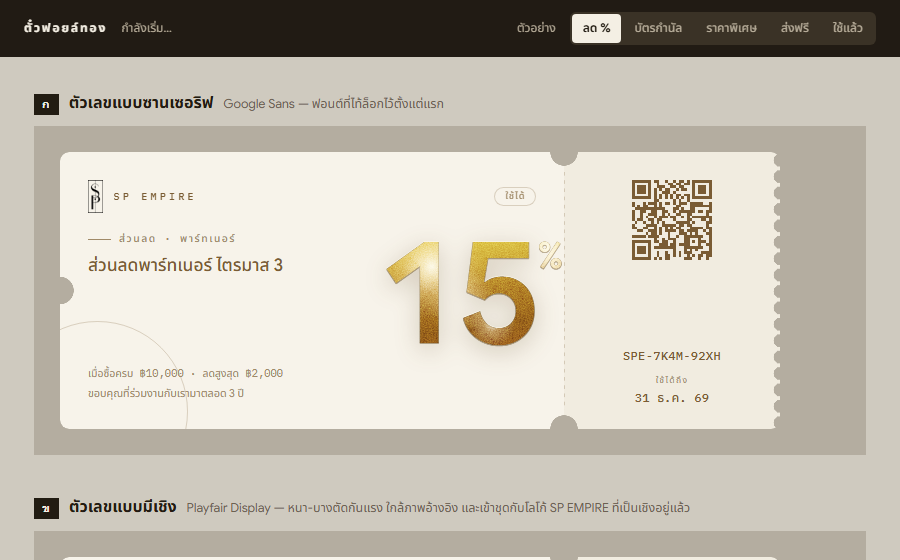
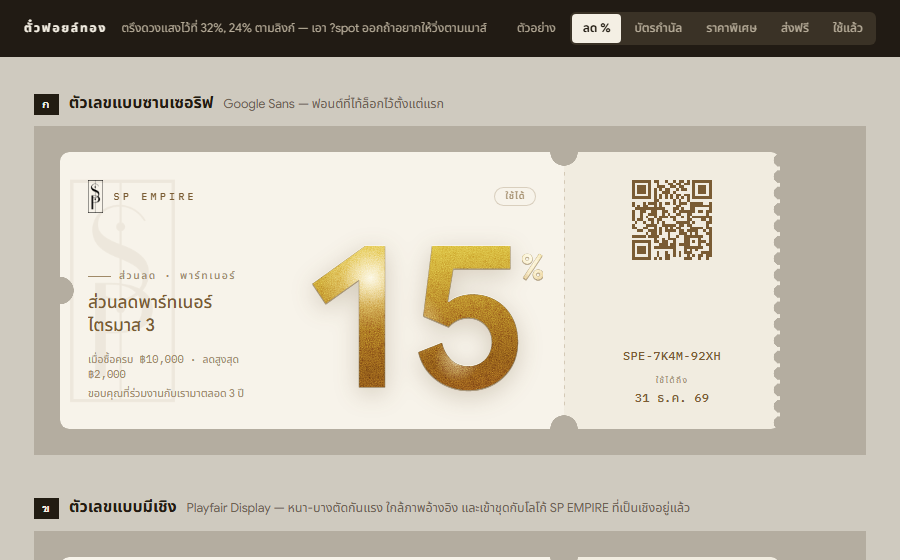
design: giant numeral, SP watermark in the paper, layout rebuilt around both
Two asks from Tie: the SP mark as a faint watermark sitting in the same layer as
the paper behind every piece of text, and the value much bigger, with the layout
redone to suit.

The watermark is a masked shape rather than the logo file dropped in. The file
is black ink, so placing it and lowering opacity yields grey, which reads as a
different material from the warm brown everything else uses. Masking cuts the
monogram out of a sheet of the text colour instead, so it is the same brown by
construction. It sits at z-index 0 with every child at 2 or above, so it cannot
climb over text no matter what changes later.

For the numeral, the old layout spent the full content width on prose and left
the number whatever remained. That is now inverted: all the text collapses into
one narrow left column and the entire rest of the card belongs to the number,
which went from 8.6 to 12 units. The header still spans both columns so the
status pill keeps the top-right corner.

The value block also stopped being absolutely positioned. It is a grid cell now,
with the currency mark and percent sign back in normal flow — while they floated
outside the box, the box measured narrower than what was drawn, so centring it
let the baht sign reach into the text column with nothing reporting a problem.

Measured across all five samples, both edges: worst clearance was +13px of
overlap into the text column and past the perforation on the baht amounts.
[…]

diff --git a/src/styles/designs/foilticket.css b/src/styles/designs/foilticket.css
@@ -72,6 +72,8 @@
 
   --ft-stub: 30;                /* ก้านฉีก = 30% ของความกว้างใบ */
   --ft-pad: 1.7;                /* ระยะขอบเนื้อหา */
+  --ft-text: 13.4;              /* ความกว้างคอลัมน์ตัวหนังสือ — ที่เหลือยกให้ตัวเลข */
+  --ft-mark: 13.6;              /* ความสูงลายน้ำโลโก้ */
   --ft-notch: 0.85;             /* รัศมีรอยบากครึ่งวงกลม */
   --ft-scallop: 0.4;            /* รัศมีคลื่นขอบขวา */
 }
@@ -125,13 +127,21 @@
   -webkit-mask-composite: source-in;
   mask-composite: intersect;
 
-  grid-template-columns: minmax(0, 1fr) calc(var(--ft-stub) * 1%);
-  grid-template-rows: auto minmax(0, 1fr) auto auto;
+  /* จัดวางใหม่ให้ตัวเลขได้ที่มากที่สุด (ไท้สั่ง "ตัวเลขหลักขอตัวใหญ่ ๆ เลย")
+     ตัวหนังสือทั้งหมดยุบไปอยู่คอลัมน์ซ้ายแคบ ๆ คอลัมน์เดียว ที่เหลือเป็นของตัวเลขล้วน
+     หัวใบพาดสองคอลัมน์ เพราะป้ายสถานะต้องอยู่มุมขวาบนสุดของฝั่งเนื้อหา */
+  grid-template-columns:
+    calc(var(--vk-u) * var(--ft-text))
+    minmax(0, 1fr)
+    calc(var(--ft-stub) * 1%);
+  grid-template-rows: auto minmax(0, 1fr) auto auto auto auto;
   grid-template-areas:
-    'head stub'
-    'body stub'
-    'cond stub'
-    'note stub';
+    'head   head stub'
+    '...... num  stub'
+    'kicker num  stub'
+    'title  num  stub'
+    'cond   num  stub'
+    'note   num  stub';
 }
 
 [data-design='foilticket'] .vk-card__art { display: none; }
@@ -152,17 +162,24 @@
   background-size: 1px calc(var(--vk-u) * 0.5);
 }
 
-/* ── ของตกแต่ง: เส้นวงกลมบาง ๆ — ชิ้นเดียวที่ไม่ใช่ตัวหนังสือ ─────────── */
+/* ── ลายน้ำโลโก้ SP — อยู่ในชั้นกระดาษ หลังข้อความทุกตัว ────────────────
+   ⚠ ใช้ "หน้ากาก" ไม่ใช่วางไฟล์ภาพตรง ๆ เพราะไฟล์โลโก้เป็นหมึกดำ
+      ถ้าวางตรง ๆ แล้วหรี่ความทึบจะได้สีเทา ไม่ใช่น้ำตาลของใบ
+      หน้ากาก = ตัดรูปทรงโลโก้ออกมาจากแผ่นสีน้ำตาล → ได้สีเดียวกับตัวหนังสือเป๊ะ
+   z-index 0 + ลูกทุกตัวอยู่ชั้น 2 ขึ้นไป → ไม่มีทางบังข้อความได้เลย            */
 
 [data-design='foilticket'][data-shape='ticket'] .vk-card::after {
   content: '';
   position: absolute;
   z-index: 0;
-  inset: auto auto calc(var(--vk-u) * -4.4) calc(var(--vk-u) * -3.2);
-  width: calc(var(--vk-u) * 11);
-  height: calc(var(--vk-u) * 11);
-  border: 1px solid var(--ft-line);
-  border-radius: 50%;
+  inset: 50% auto auto calc(var(--vk-u) * 0.6);
+  transform: translateY(-50%);
+  height: calc(var(--vk-u) * var(--ft-mark));
+  aspect-ratio: 151 / 320;      /* สัดส่วนจริงของไฟล์มอโนแกรม ห้ามยืดผิดส่วน */
+  background: var(--ft-ink);
+  opacity: 0.07;
+  -webkit-mask: url('../../../assets/brand/spe-mark.png') center / contain no-repeat;
+  mask: url('../../../assets/brand/spe-mark.png') center / contain no-repeat;
   pointer-events: none;
 }
 
@@ -199,10 +216,9 @@
 /* ── ตัวหนังสือฝั่งซ้าย — เล็กหมด ไม่มีของขนาดกลาง ─────────────────────── */
 
 [data-design='foilticket'] .vk-card__kicker {
-  grid-area: body;
+  grid-area: kicker;
   position: relative; z-index: 2;
-  align-self: start;
-  margin: calc(var(--vk-u) * 1.15) calc(var(--vk-u) * var(--ft-pad)) 0;
+  margin: 0 calc(var(--vk-u) * 1) calc(var(--vk-u) * 0.42) calc(var(--vk-u) * var(--ft-pad));
   display: flex; align-items: center; gap: calc(var(--vk-u) * 0.5);
   font-family: var(--ft-mono); font-weight: 500;
   font-size: calc(var(--vk-u) * 0.62); letter-spacing: 0.16em;
@@ -215,11 +231,9 @@
 }
 
 [data-design='foilticket'] .vk-card__title {
-  grid-area: body;
+  grid-area: title;
   position: relative; z-index: 2;
-  align-self: start;
-  margin: calc(var(--vk-u) * 2.5) calc(var(--vk-u) * var(--ft-pad)) 0;
-  max-width: calc(var(--vk-u) * 15);
+  margin: 0 calc(var(--vk-u) * 0.8) calc(var(--vk-u) * 0.9) calc(var(--vk-u) * var(--ft-pad));
   display: -webkit-box; -webkit-box-orient: vertical; -webkit-line-clamp: 2; overflow: hidden;
   font-weight: 500;
   font-size: calc(var(--vk-u) * 1.06);
@@ -231,9 +245,8 @@
 [data-design='foilticket'] .vk-card__cond {
   grid-area: cond;
   position: relative; z-index: 2;
-  margin: 0 calc(var(--vk-u) * var(--ft-pad)) calc(var(--vk-u) * 0.34);
-  max-width: calc(var(--vk-u) * 15);
-  display: -webkit-box; -webkit-box-orient: vertical; -webkit-line-clamp: 1; overflow: hidden;
+  margin: 0 calc(var(--vk-u) * 0.6) calc(var(--vk-u) * 0.3) calc(var(--vk-u) * var(--ft-pad));
+  display: -webkit-box; -webkit-box-orient: vertical; -webkit-line-clamp: 2; overflow: hidden;
   font-family: var(--ft-mono);
   font-size: calc(var(--vk-u) * 0.64);
   line-height: 1.4; color: var(--ft-ink-2);
@@ -241,9 +254,8 @@
 [data-design='foilticket'] .vk-card__note {
   grid-area: note;
   position: relative; z-index: 2;
-  margin: 0 calc(var(--vk-u) * var(--ft-pad)) calc(var(--vk-u) * var(--ft-pad));
-  max-width: calc(var(--vk-u) * 15);
-  display: -webkit-box; -webkit-box-orient: vertical; -webkit-line-clamp: 1; overflow: hidden;
+  margin: 0 calc(var(--vk-u) * 0.6) calc(var(--vk-u) * var(--ft-pad)) calc(var(--vk-u) * var(--ft-pad));
+  display: -webkit-box; -webkit-box-orient: vertical; -webkit-line-clamp: 2; overflow: hidden;
   font-size: calc(var(--vk-u) * 0.66);
   line-height: 1.4; color: var(--ft-ink-2);
 }
@@ -253,13 +265,18 @@
    ⚠ ต้องเป็นของมันวาว "ชิ้นเดียว" ในใบ อย่าเผลอเอาไล่เฉดทองไปใส่ที่อื่น
       พอมีของวาวสองที่ ตาจะเลือกไม่ถูกแล้วทั้งใบดูถูกลงทันที (บทเรียนจากภาพอ้างอิง)
    วางลอยเทียบกับใบ ชิดขวาของฝั่งเนื้อหา ให้ชนแนวเส้นประพอดี                */
+/* ⚠ เดิมวางลอย (absolute) ซึ่งทำให้ ฿ กับ % ที่ลอยออกนอกกล่องยื่นไปทับคอลัมน์ซ้ายได้
+   ตอนนี้เป็นช่องหนึ่งของกริดและเรียงในสายปกติ → กล่องกว้างเท่ากลุ่มทั้งหมดจริง
+   จัดกึ่งกลางช่องแล้วไม่มีอะไรล้นไปหาตัวหนังสือ ไม่ว่าตัวเลขจะกี่หลัก */
 [data-design='foilticket'][data-shape='ticket'] .vk-card__value {
-  position: absolute;
+  grid-area: num;
+  position: relative;
   z-index: 3;
-  right: calc(var(--ft-stub) * 1% + var(--vk-u) * var(--ft-pad));
-  top: 50%;
-  transform: translateY(-46%);
-  display: block;
+  align-self: center;
+  justify-self: center;
+  display: flex;
+  align-items: flex-start;
+  gap: calc(var(--vk-u) * 0.16);
   margin: 0; padding: 0; background: none;
   pointer-events: none;
 }
@@ -268,9 +285,9 @@
   display: block;
   font-family: var(--ft-num);
   font-weight: 600;
-  font-size: calc(var(--vk-u) * 8.6);
-  line-height: 0.86;
-  letter-spacing: -0.04em;
+  font-size: calc(var(--vk-u) * 12);
+  line-height: 0.84;
+  letter-spacing: -0.045em;
 
   /* ฟอยล์: ผิวหยาบทับไล่เฉดทอง แล้วฉลุทั้งสองชั้นตามรูปตัวอักษร */
   /* ⚠⚠ ไล่เฉด "ดวงแสง" 3 ดวงต้องเขียนตรงนี้ ห้ามยกไปเก็บเป็นตัวแปร
@@ -324,21 +341,26 @@
     drop-shadow(0 6px 12px rgba(90, 66, 22, 0.22));
 }
 
-[data-design='foilticket'] .vk-card__num[data-len='3'] { font-size: calc(var(--vk-u) * 7); }
-[data-design='foilticket'] .vk-card__num[data-len='4'] { font-size: calc(var(--vk-u) * 6.2); }
-[data-design='foilticket'] .vk-card__num[data-len='5'] { font-size: calc(var(--vk-u) * 5.4); }
-[data-design='foilticket'] .vk-card__num[data-len='6'] { font-size: calc(var(--vk-u) * 4.6); }
+/* ตัวเลขยิ่งหลายหลักยิ่งต้องเล็กลง ไม่งั้นล้นเข้าไปในคอลัมน์ตัวหนังสือ
+   ตัวเลขชุดนี้วัดมาแล้วว่าไม่ล้นทั้ง 5 แบบคูปอง — แก้แล้วต้องวัดใหม่ทุกครั้ง */
+[data-design='foilticket'] .vk-card__num[data-len='3'] { font-size: calc(var(--vk-u) * 8.6); }
+[data-design='foilticket'] .vk-card__num[data-len='4'] { font-size: calc(var(--vk-u) * 7.5); }
+[data-design='foilticket'] .vk-card__num[data-len='5'] { font-size: calc(var(--vk-u) * 6); }
+[data-design='foilticket'] .vk-card__num[data-len='6'] { font-size: calc(var(--vk-u) * 5.1); }
 [data-design='foilticket'] .vk-card__num[data-text='true'][data-len] {
-  font-size: calc(var(--vk-u) * 3); line-height: 1.1; letter-spacing: -0.01em;
+  font-size: calc(var(--vk-u) * 4.8); line-height: 1.08; letter-spacing: -0.01em;
 }
 
 /* ฿ และ % — ทองเหมือนกันแต่เล็กกว่ามาก ลอยออกนอกกล่องไม่กินความกว้าง */
+/* ฿ และ % เรียงในสายปกติ (ไม่ลอย) → กล่องตัวเลขกว้างเท่ากลุ่มทั้งหมดจริง
+   เกาะขอบบนเหมือนตัวยก แล้วเยื้องลงนิดเดียวให้หัวเสมอหัวตัวเลข */
 [data-design='foilticket'] .vk-card__lead,
 [data-design='foilticket'] .vk-card__unit {
-  position: absolute;
-  top: 0.06em;
+  flex: none;
+  align-self: flex-start;
+  margin-block-start: calc(var(--vk-u) * 0.62);
   font-family: var(--ft-num); font-weight: 600;
-  font-size: calc(var(--vk-u) * 2.3); line-height: 1;
+  font-size: calc(var(--vk-u) * 2.2); line-height: 1;
   /* ⚠⚠ ไล่เฉด "ดวงแสง" 3 ดวงต้องเขียนตรงนี้ ห้ามยกไปเก็บเป็นตัวแปร
      ตัวแปรที่ข้างในมี var() จะถูกแทนค่า **ตั้งแต่จุดที่ประกาศ** ไม่ใช่ที่จุดที่ใช้
      ถ้าเก็บ radial-gradient ไว้ในตัวแปรที่ประกาศบนกล่องนอก มันจะอบค่า
@@ -379,12 +401,7 @@
   color: transparent;
   filter: drop-shadow(0 1px 0 rgba(104, 76, 28, 0.4));
 }
-[data-design='foilticket'] .vk-card__unit {
-  inset-inline-start: 100%; margin-inline-start: calc(var(--vk-u) * 0.18);
-}
-[data-design='foilticket'] .vk-card__lead {
-  inset-inline-end: 100%; margin-inline-end: calc(var(--vk-u) * 0.18);
-}
+/* ฿ อยู่หน้าตัวเลข % อยู่หลัง — ลำดับใน HTML ถูกอยู่แล้ว ไม่ต้องสลับอะไร */
 
 /* ── ก้านฉีก 30% — QR + รหัส + วันหมดอายุ (ส่วนที่พนักงานฉีกเก็บ) ──────── */
 

diff --git a/demo/design-foil.html b/demo/design-foil.html
@@ -132,8 +132,9 @@ function paint() {
       card.style.setProperty('--ft-spot-x', `${x}%`);
       card.style.setProperty('--ft-spot-y', `${y}%`);
     }
-    document.querySelector('#diag').textContent =
-      `ตรึงดวงแสงไว้ที่ ${x}%, ${y}% ตามลิงก์ — เอา ?spot ออกถ้าอยากให้วิ่งตามเมาส์`;
+    const msg = `ตรึงดวงแสงไว้ที่ ${x}%, ${y}% ตามลิงก์ — เอา ?spot ออกถ้าอยากให้วิ่งตามเมาส์`;
+    document.querySelector('#diag').textContent = msg;
+    say(msg);
     return;
   }
 
